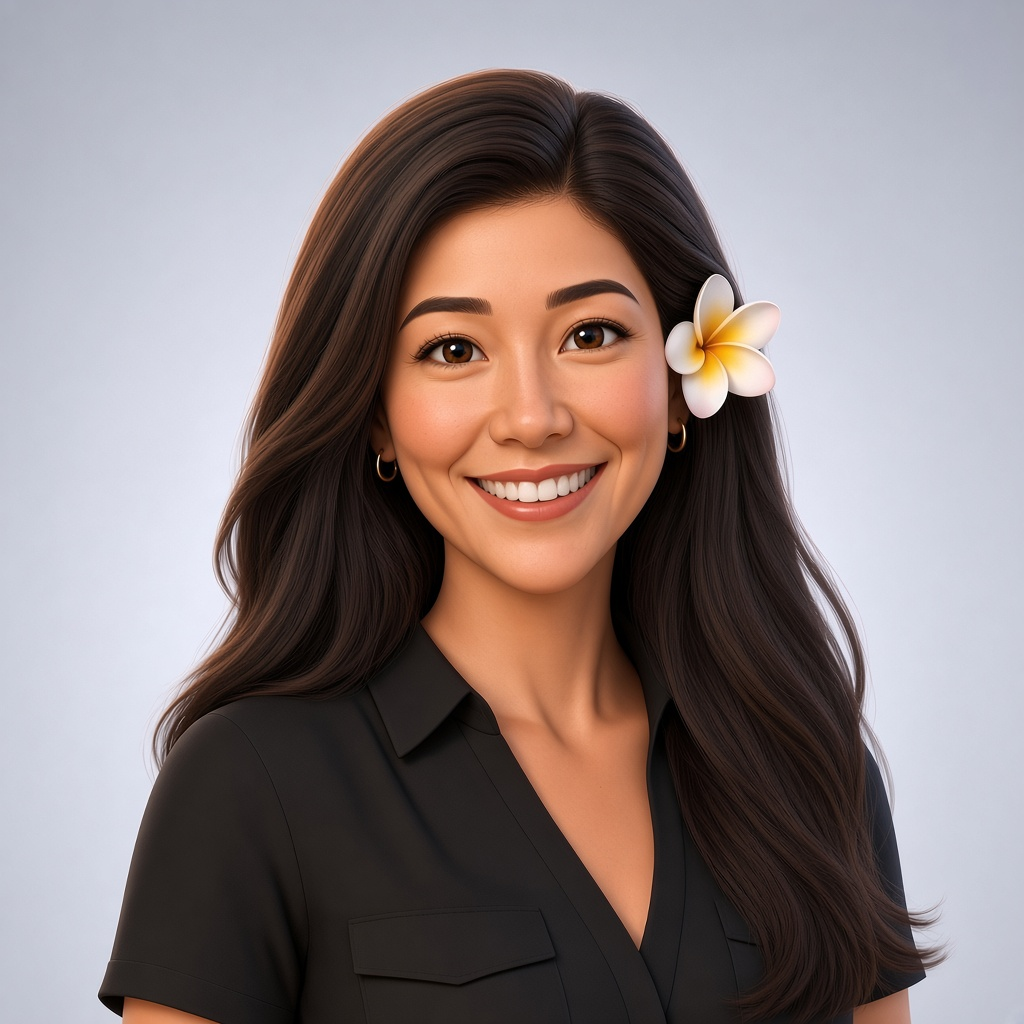
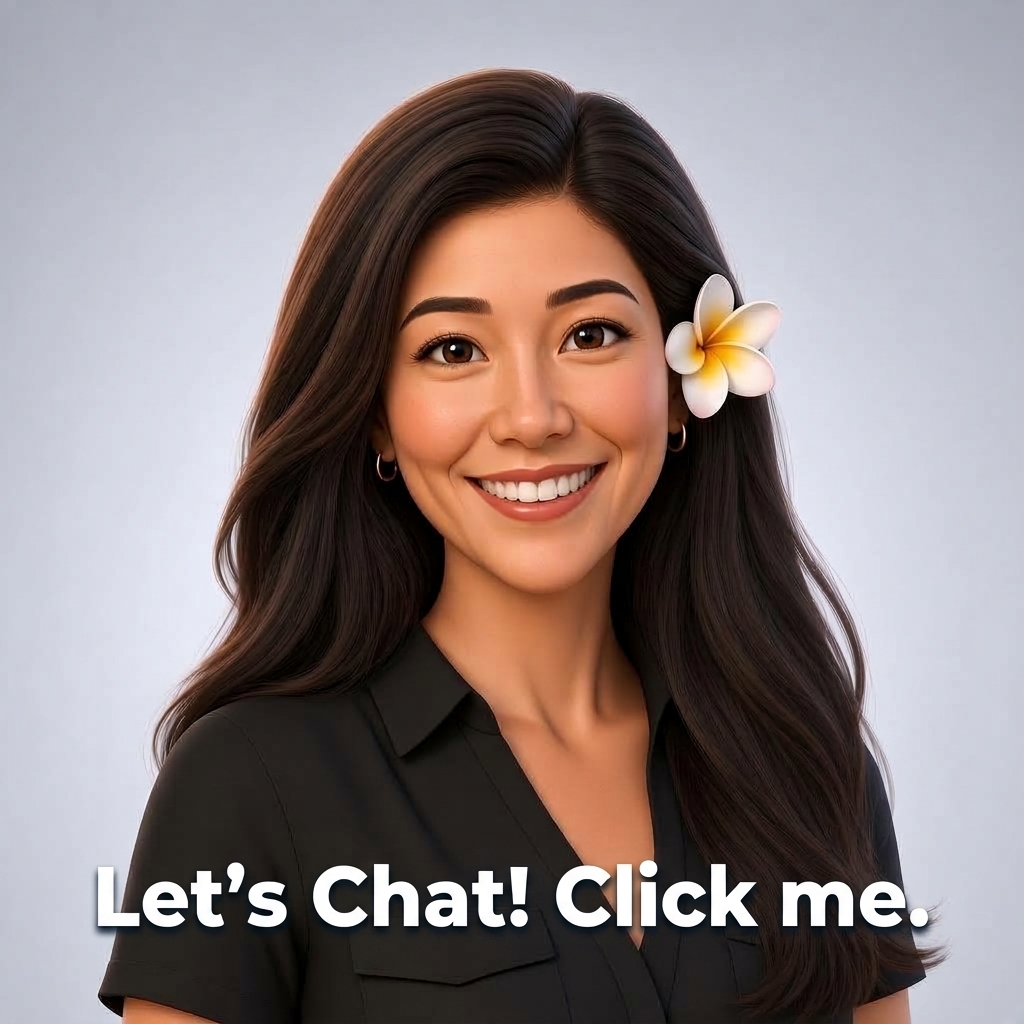
Update ilendgirl.html: embed 'Let's Chat!' text into Kate's photo, remove text bubble

Changed region(s): [[0.0938, 0.8438, 0.9062, 0.9375], [0.5625, 0.3125, 0.5938, 0.3438], [0.1562, 0.6875, 0.1875, 0.7188]]

diff --git a/ilendgirl.html b/ilendgirl.html
@@ -23,7 +23,7 @@ body:has(lemon-slice-widget[controlled-widget-state="active"]) #buddy-mute-hint{
 
 <div class="buddy-avatar-promo">
 <p class="eyebrow">BUDDYFETCH.AI</p>
-<div class="avatar-frame"><img src="/assets/image.jpg" alt="iLendGirl avatar" id="buddy-avatar-trigger"/><p class="avatar-caption">Let's Yap!&nbsp;&nbsp;Click me.</p></div>
+<div class="avatar-frame"><img src="/assets/ilendgirl-kate-lets-chat---cb6a0de7-6977-4b55-84e5-9a3be44299b5.jpg" alt="iLendGirl avatar" id="buddy-avatar-trigger"/></div>
 <h1>Kate</h1>
 <p>Kate is your AI real estate assistant. Talk to Kate to access your Company Brain, fetch real tasks, and get work delivered autonomously. Powered by BuddyFetch.AI and OpenClaw.</p>
 <button type="button" class="btn btn-primary" id="start-buddy-avatar">Start Fetch Mode</button>
